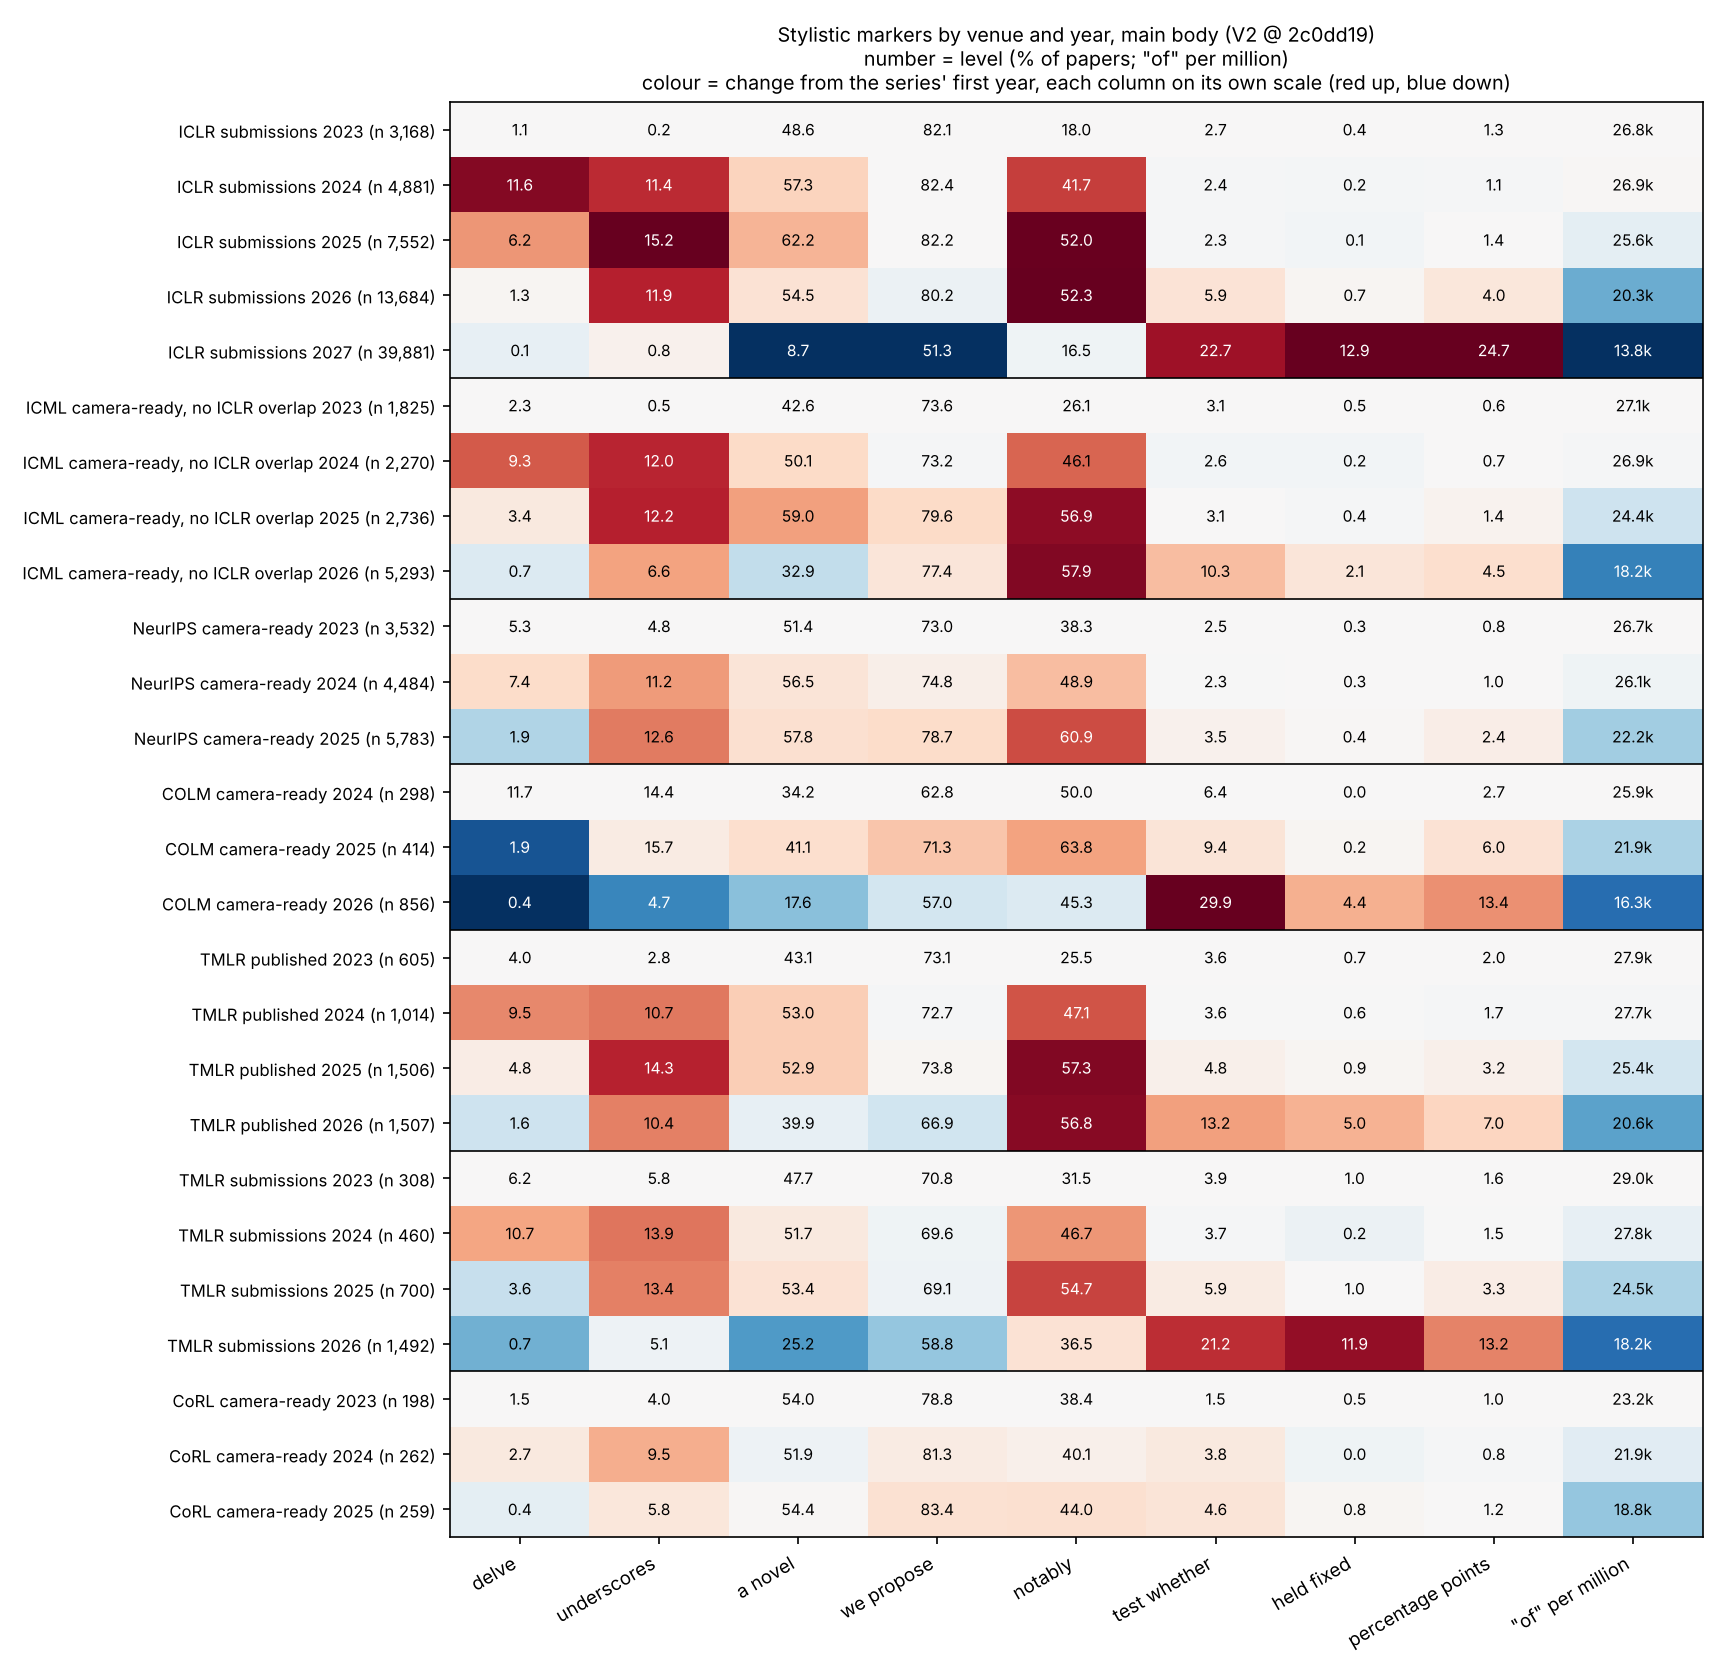
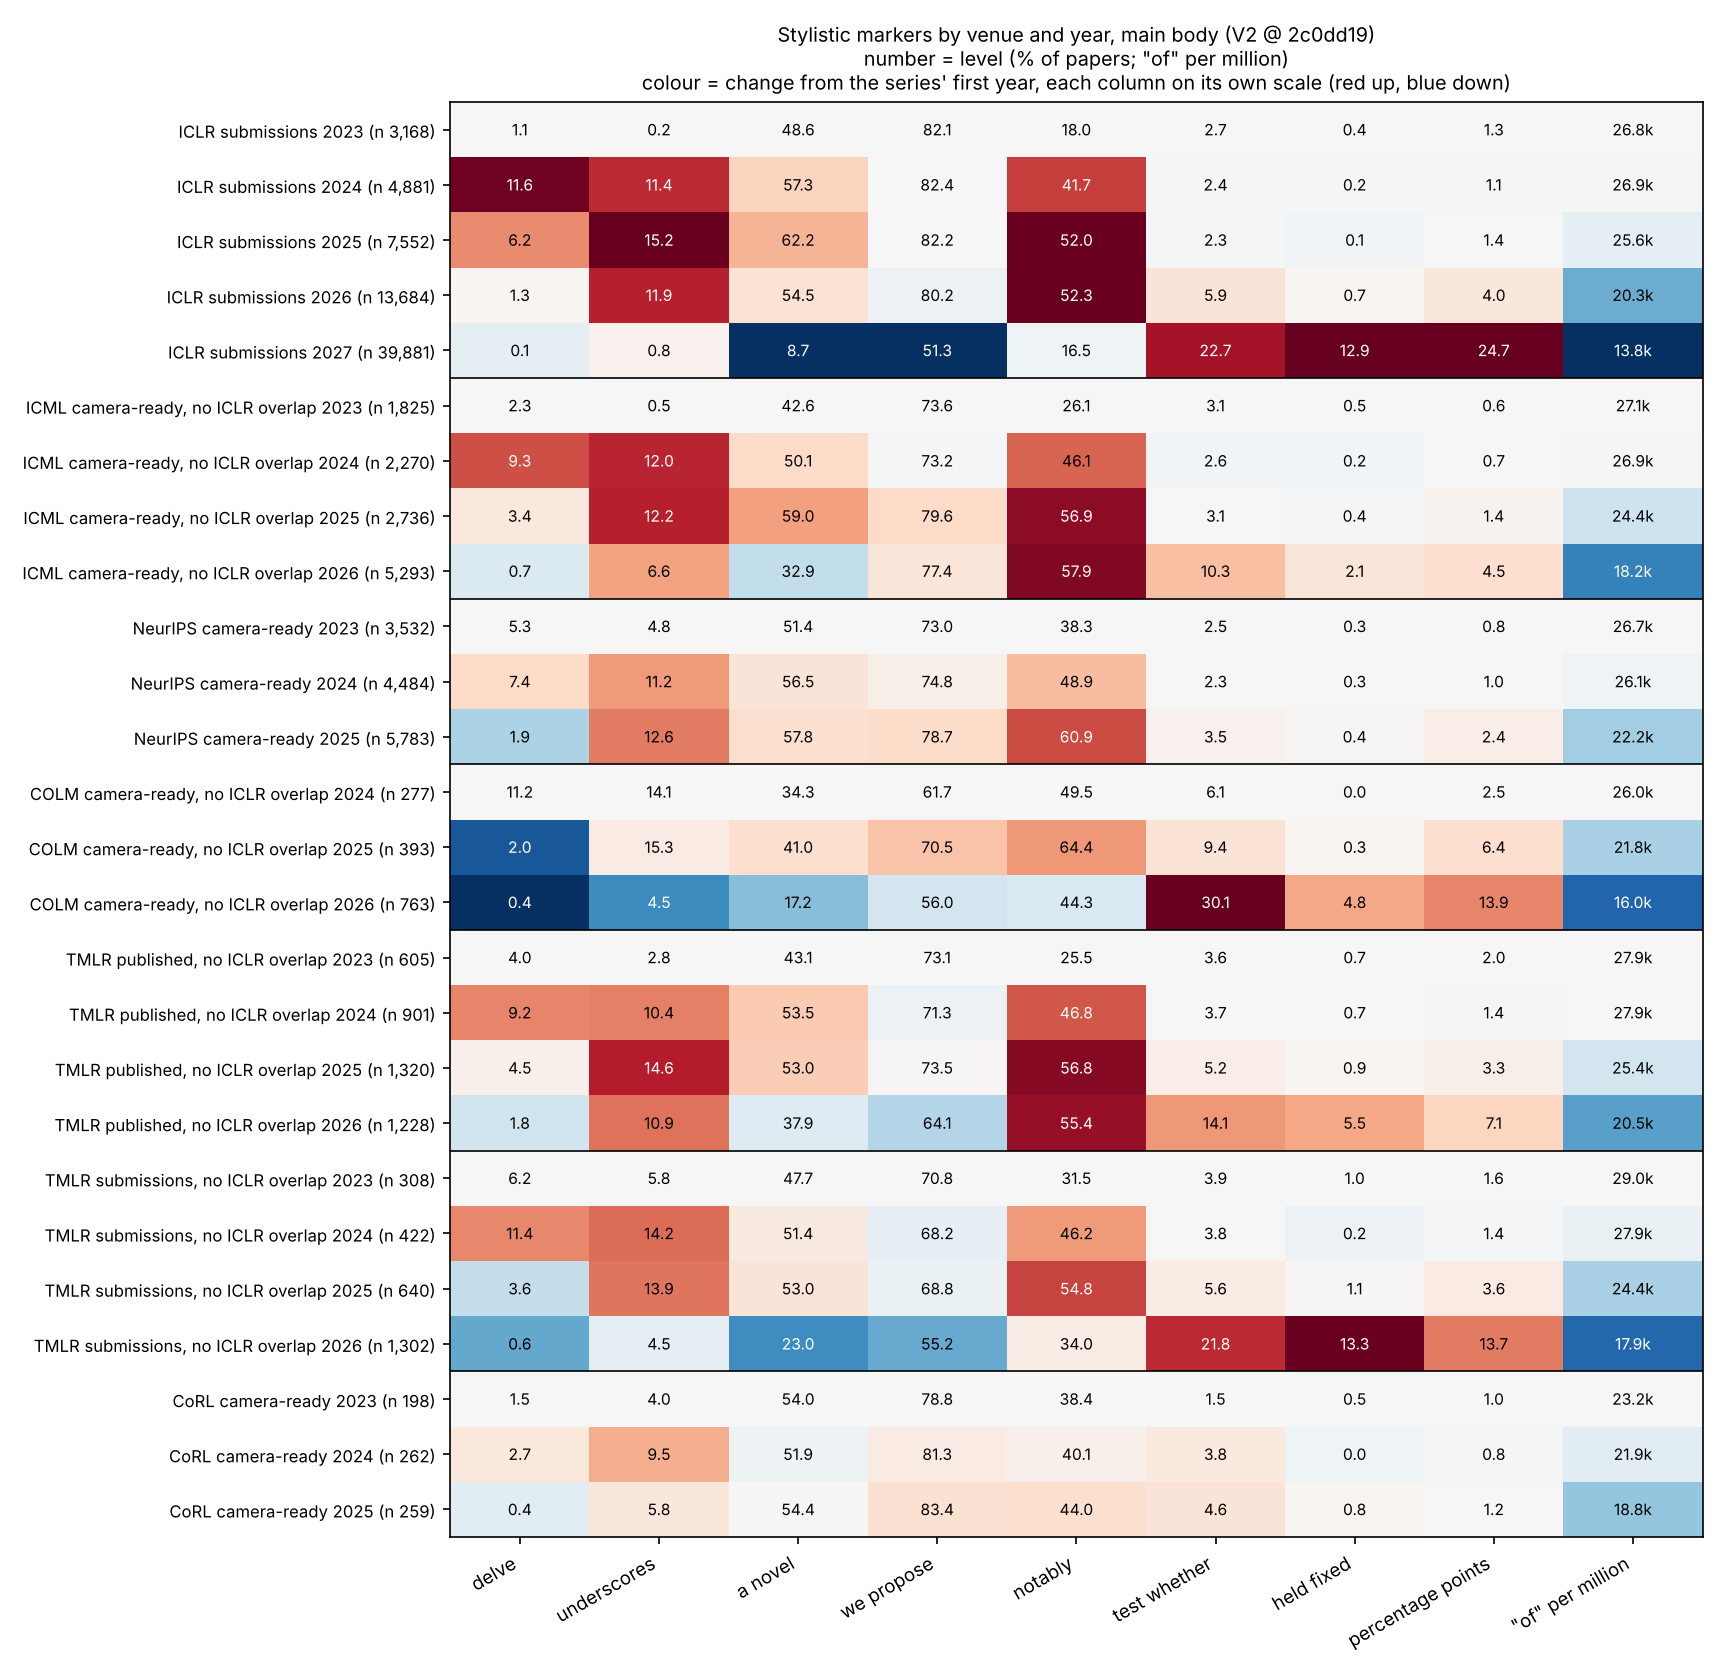
Gate 5 (V2): take Lane B's B1/B2 corrections; fig 4c rows drop ICLR overlap for COLM and TMLR
Claude-Session: https://claude.ai/code/session_01VHeN6i8BgbyfS5QBSsNEzR

diff --git a/scripts/v2/integration_marker_heatmap.py b/scripts/v2/integration_marker_heatmap.py
@@ -25,9 +25,9 @@ SERIES = [
     ("ICLR submissions", "iclr", "under_review", [2023, 2024, 2025, 2026, 2027], 2023),
     ("ICML camera-ready, no ICLR overlap", "icml", "published_no_overlap", [2023, 2024, 2025, 2026], 2023),
     ("NeurIPS camera-ready", "neurips", "published", [2023, 2024, 2025], 2023),
-    ("COLM camera-ready", "colm", "published", [2024, 2025, 2026], 2024),
-    ("TMLR published", "tmlr", "published", [2023, 2024, 2025, 2026], 2023),
-    ("TMLR submissions", "tmlr", "under_review", [2023, 2024, 2025, 2026], 2023),
+    ("COLM camera-ready, no ICLR overlap", "colm", "published_no_overlap", [2024, 2025, 2026], 2024),
+    ("TMLR published, no ICLR overlap", "tmlr", "published_no_overlap", [2023, 2024, 2025, 2026], 2023),
+    ("TMLR submissions, no ICLR overlap", "tmlr", "under_review_no_overlap", [2023, 2024, 2025, 2026], 2023),
     ("CoRL camera-ready", "corl", "published", [2023, 2024, 2025], 2023),
 ]
 MARKERS = [  # (column label, metric, kind)

diff --git a/docs/v2-integration.md b/docs/v2-integration.md
@@ -16,7 +16,7 @@ is made from linguistic correlations._
 |---|---|---|---|
 | 0. Corpus discovery | Lane A | done (`e91d134`) | confirmed (E1–E3), minor count fixes |
 | 1. Provenance and cache | Lane A | done (`df37fbe`) | confirmed; latent defects D1, D2 found elsewhere |
-| 2. Replication | Lane B | done (`713b3db`) | numbers reproduce; D2 fixed, D3 adopted. Open: B1 TMLR year text, B2 say which rows exclude ICLR overlap |
+| 2. Replication | Lane B | done (`713b3db`) | numbers reproduce; D2 fixed, D3 adopted; B1 and B2 fixed (`50f5d19`), no result changed |
 | 3. Function words | Lane C | done (`6b80821` … `ac0d4c0`) | numbers reproduce (E5, E6); D3 adopted. Open: C1 figure 3b compares levels across venues, C2 TMLR year text |
 | 3–4. Appendices, disclosures | Lane D | done (`90f33b5`) | 7% → 47% and ICLR 2026 statement rate reproduce with Lane E code (E9). Open: D-1 D3 not applied (ICML step and pairs are title-only); category shares **provisional** until Bobby's 45 labels are scored |
 | 5. Integration | this document | draft 2: Lane E's second pass (`ee1cb5f`) folded in | no result-changing defect found in B, C or D; fixes C1, C2, B1, B2, D-1 routed to their lanes and open until their docs show them |
@@ -169,7 +169,7 @@ compared, never cross-venue levels**, and ICML is analysed without its ICLR-over
 ![Stylistic markers by venue and year](../results/v2/integration/fig4c_marker_heatmap.png)
 
 _Figure 4c (new; `scripts/v2/integration_marker_heatmap.py`, table `fig4c_marker_heatmap.csv`).
-Lane B's main-body estimates, revision `2c0dd19`. Number = level; colour = change from the series'
+Lane B's main-body estimates, revision `2c0dd19`; ICML, COLM and TMLR rows exclude ICLR-overlap papers. Number = level; colour = change from the series'
 first year, each column on its own scale. Read along one venue only. The function-word half of
 visualization 4 is Lane C's `fig4_heatmap.png`._
 
@@ -186,10 +186,9 @@ visualization 4 is Lane C's `fig4_heatmap.png`._
   2026, with no single step. "and" rises and "we" falls over the same quarters (Lane E,
   `e10_tmlr_by_publication_quarter.csv`). Publication month lags writing by months.
 - **The 2027 rhetorical register appears in every 2026-written cohort** (Lane B; % of papers):
-  *a novel* ICML 59.0 → 32.9 (2025 → 2026, ICLR overlap removed), COLM 41.1 → 17.6, TMLR submissions
-  53.4 → 25.2; *test whether* 3.1 → 10.3, 9.4 → 29.9, 5.9 → 21.2. ICLR 2027 itself: 54.5 → 8.7 and
-  5.9 → 22.7. Only the ICML rows exclude ICLR-overlap papers; COLM and TMLR keep theirs (≥ 9.5% and
-  ≥ 13.9%), which slightly understates their movement (Lane E B2). Amplitude orders TMLR submissions ≈ COLM > TMLR published > ICML, and NeurIPS 2025
+  *a novel* ICML 59.0 → 32.9 (2025 → 2026), COLM 41.0 → 17.2, TMLR submissions 53.0 → 23.0;
+  *test whether* 3.1 → 10.3, 9.4 → 30.1, 5.6 → 21.8, all with ICLR-overlap papers removed (Lane B,
+  corrected after Lane E B2). ICLR 2027 itself: 54.5 → 8.7 and 5.9 → 22.7. Amplitude orders TMLR submissions ≈ COLM > TMLR published > ICML, and NeurIPS 2025
   (written a year earlier) barely moves.
 - **The within-2026 gradient** (Lane C): the markers that make ICLR 2027 different move more the later
   a 2026 cohort's deadline. "to" falls −10% (ICLR 2026, Sep 2025) → −11% (ICML, Jan 2026) → −20%
@@ -309,7 +308,7 @@ Runners-up, in order:
 
 1. **Bobby's 45 disclosure labels.** Until `scripts/v2/score_labels.py` runs on them, every drafting /
    polish-only / stance share in Lane D and above is a machine label.
-2. **Lane E's routed fixes** (C1, C2, B1, B2, D-1). None changes a result, but the ICML appendix step
+2. **Lane E's routed fixes** (C1, C2 to Lane C; D-1 to Lane D; B1, B2 done). None changes a result, but the ICML appendix step
    stays out of the "independent evidence" column until D-1 lands.
 3. **The MuPDF observation in the directive** stays uncited unless the PDF, its hash and the extraction
    output are committed.

diff --git a/docs/handoff.md b/docs/handoff.md
@@ -203,6 +203,6 @@ step; arXiv rate-limits this environment's IP (HTTP 429), so lookups need ≥ 4 
 
 `docs/v2-integration.md` answers the directive's seven questions from the Gate 0/1 and Lane B–E docs and
 adds one figure (`results/v2/integration/fig4c_marker_heatmap.png`, `scripts/v2/integration_marker_heatmap.py`,
-from Lane B's `venue_metrics.csv`). Lane E second pass (ee1cb5f) folded in. Open before it is final: routed fixes C1, C2, B1, B2, D-1;
+from Lane B's `venue_metrics.csv`). Lane E second pass (ee1cb5f) folded in. Open before it is final: routed fixes C1, C2, D-1 (B1, B2 done);
 Bobby's 45 disclosure labels (category shares are provisional until scored). Recommended next experiment:
 a monthly arXiv-abstract series 2023–2026, ML and non-ML categories, with Lane C's counter.
